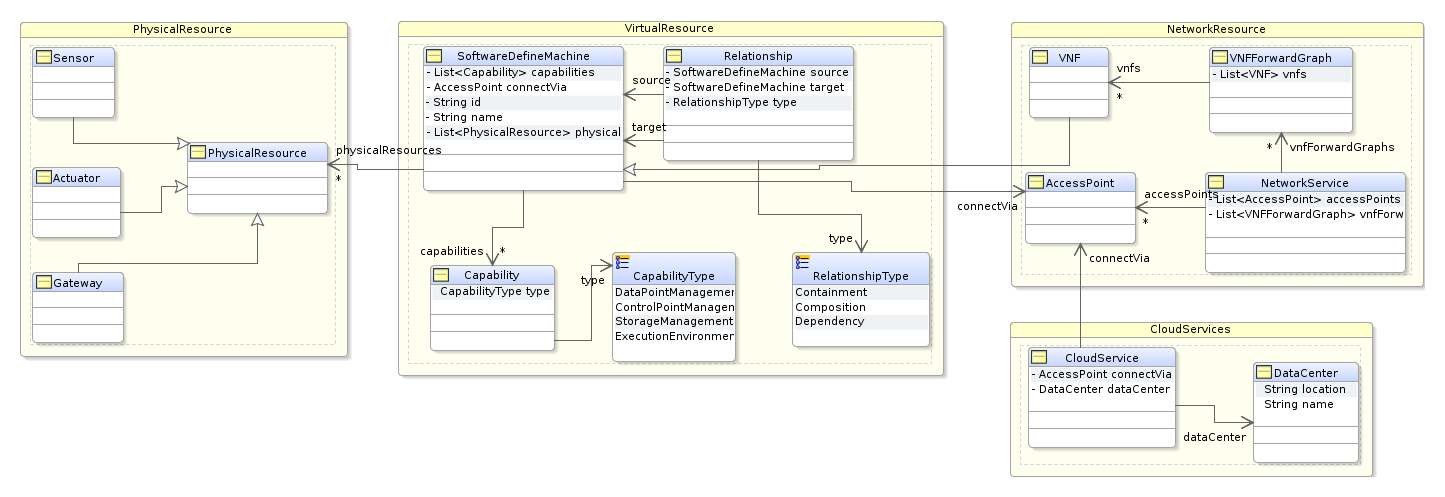
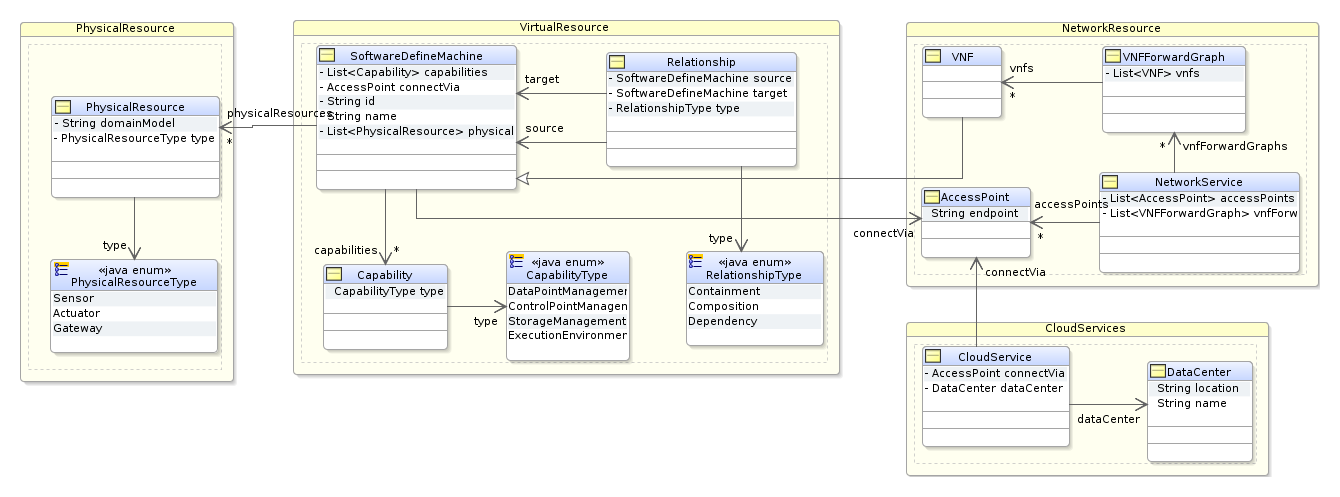
refine model

Changed region(s): [[0.0, 0.0302, 0.9791, 0.9658], [0.0, 0.7545, 0.1836, 0.7847], [0.8261, 0.2414, 0.8567, 0.2716]]

diff --git a/information-management/model/src/NetworkResource/VNF.java b/information-management/model/src/NetworkResource/VNF.java
@@ -3,4 +3,5 @@ package NetworkResource;
 import VirtualResource.SoftwareDefineMachine;
 
 public class VNF extends SoftwareDefineMachine {
+    
 }

diff --git a/information-management/model/src/CloudServices/AccessPoint.java b/information-management/model/src/CloudServices/AccessPoint.java
@@ -1,4 +1,5 @@
 package CloudServices;
 
 public class AccessPoint {
+    String endpoint;
 }
